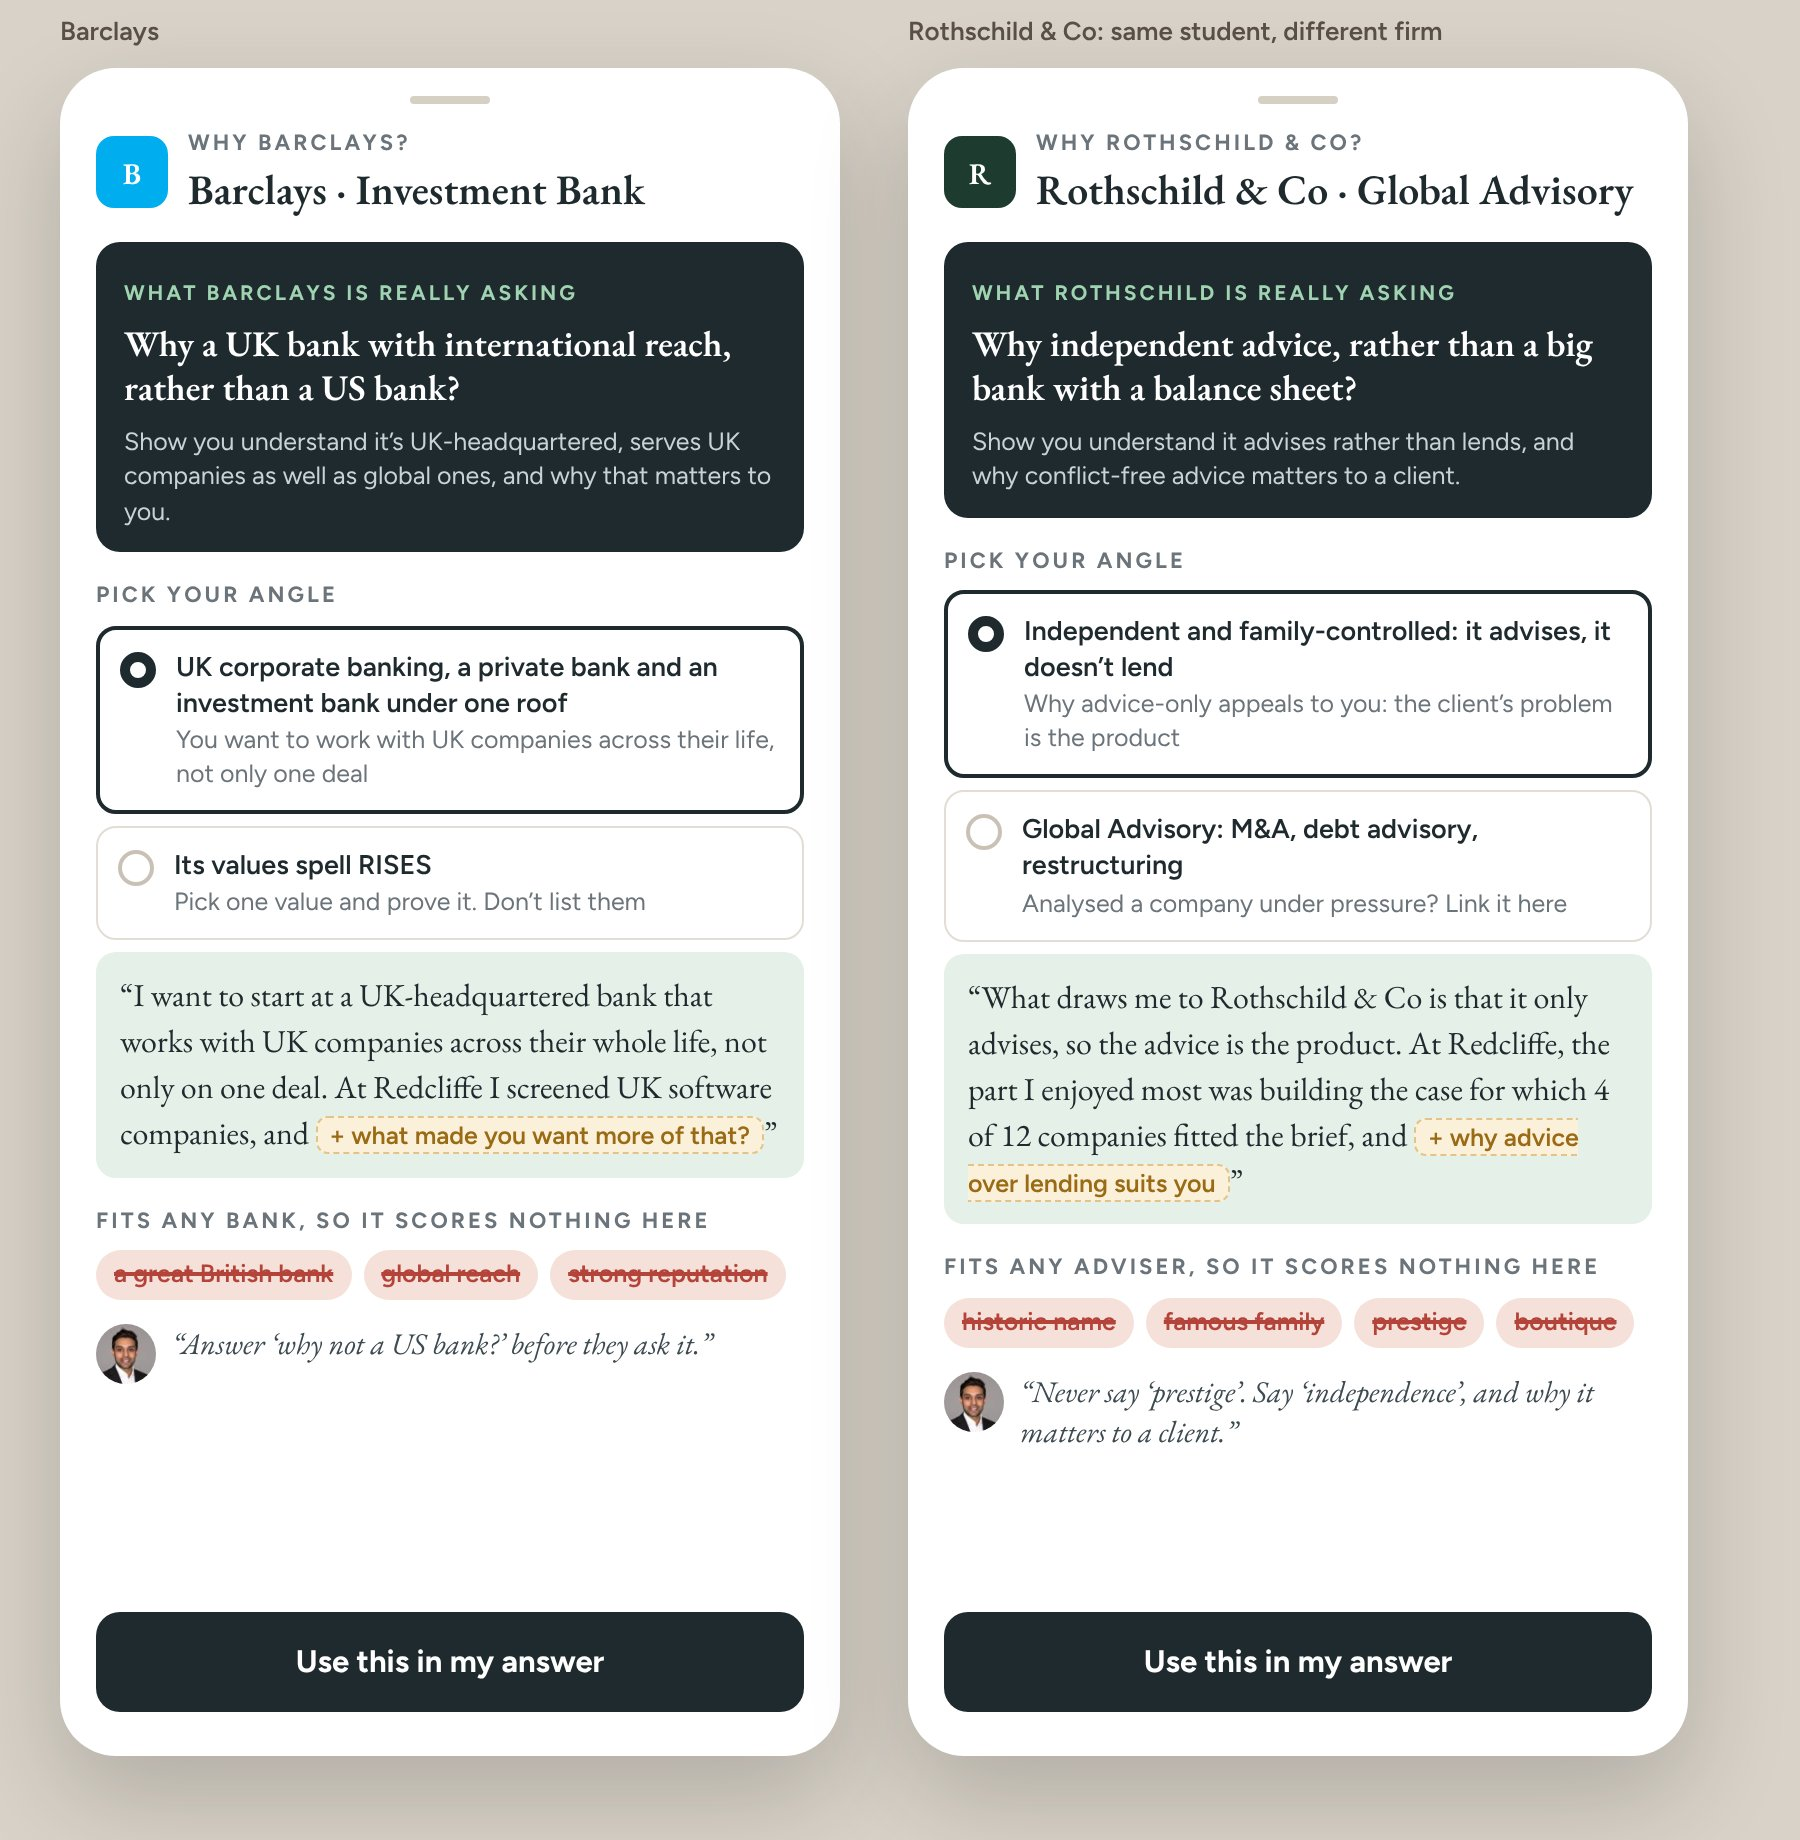
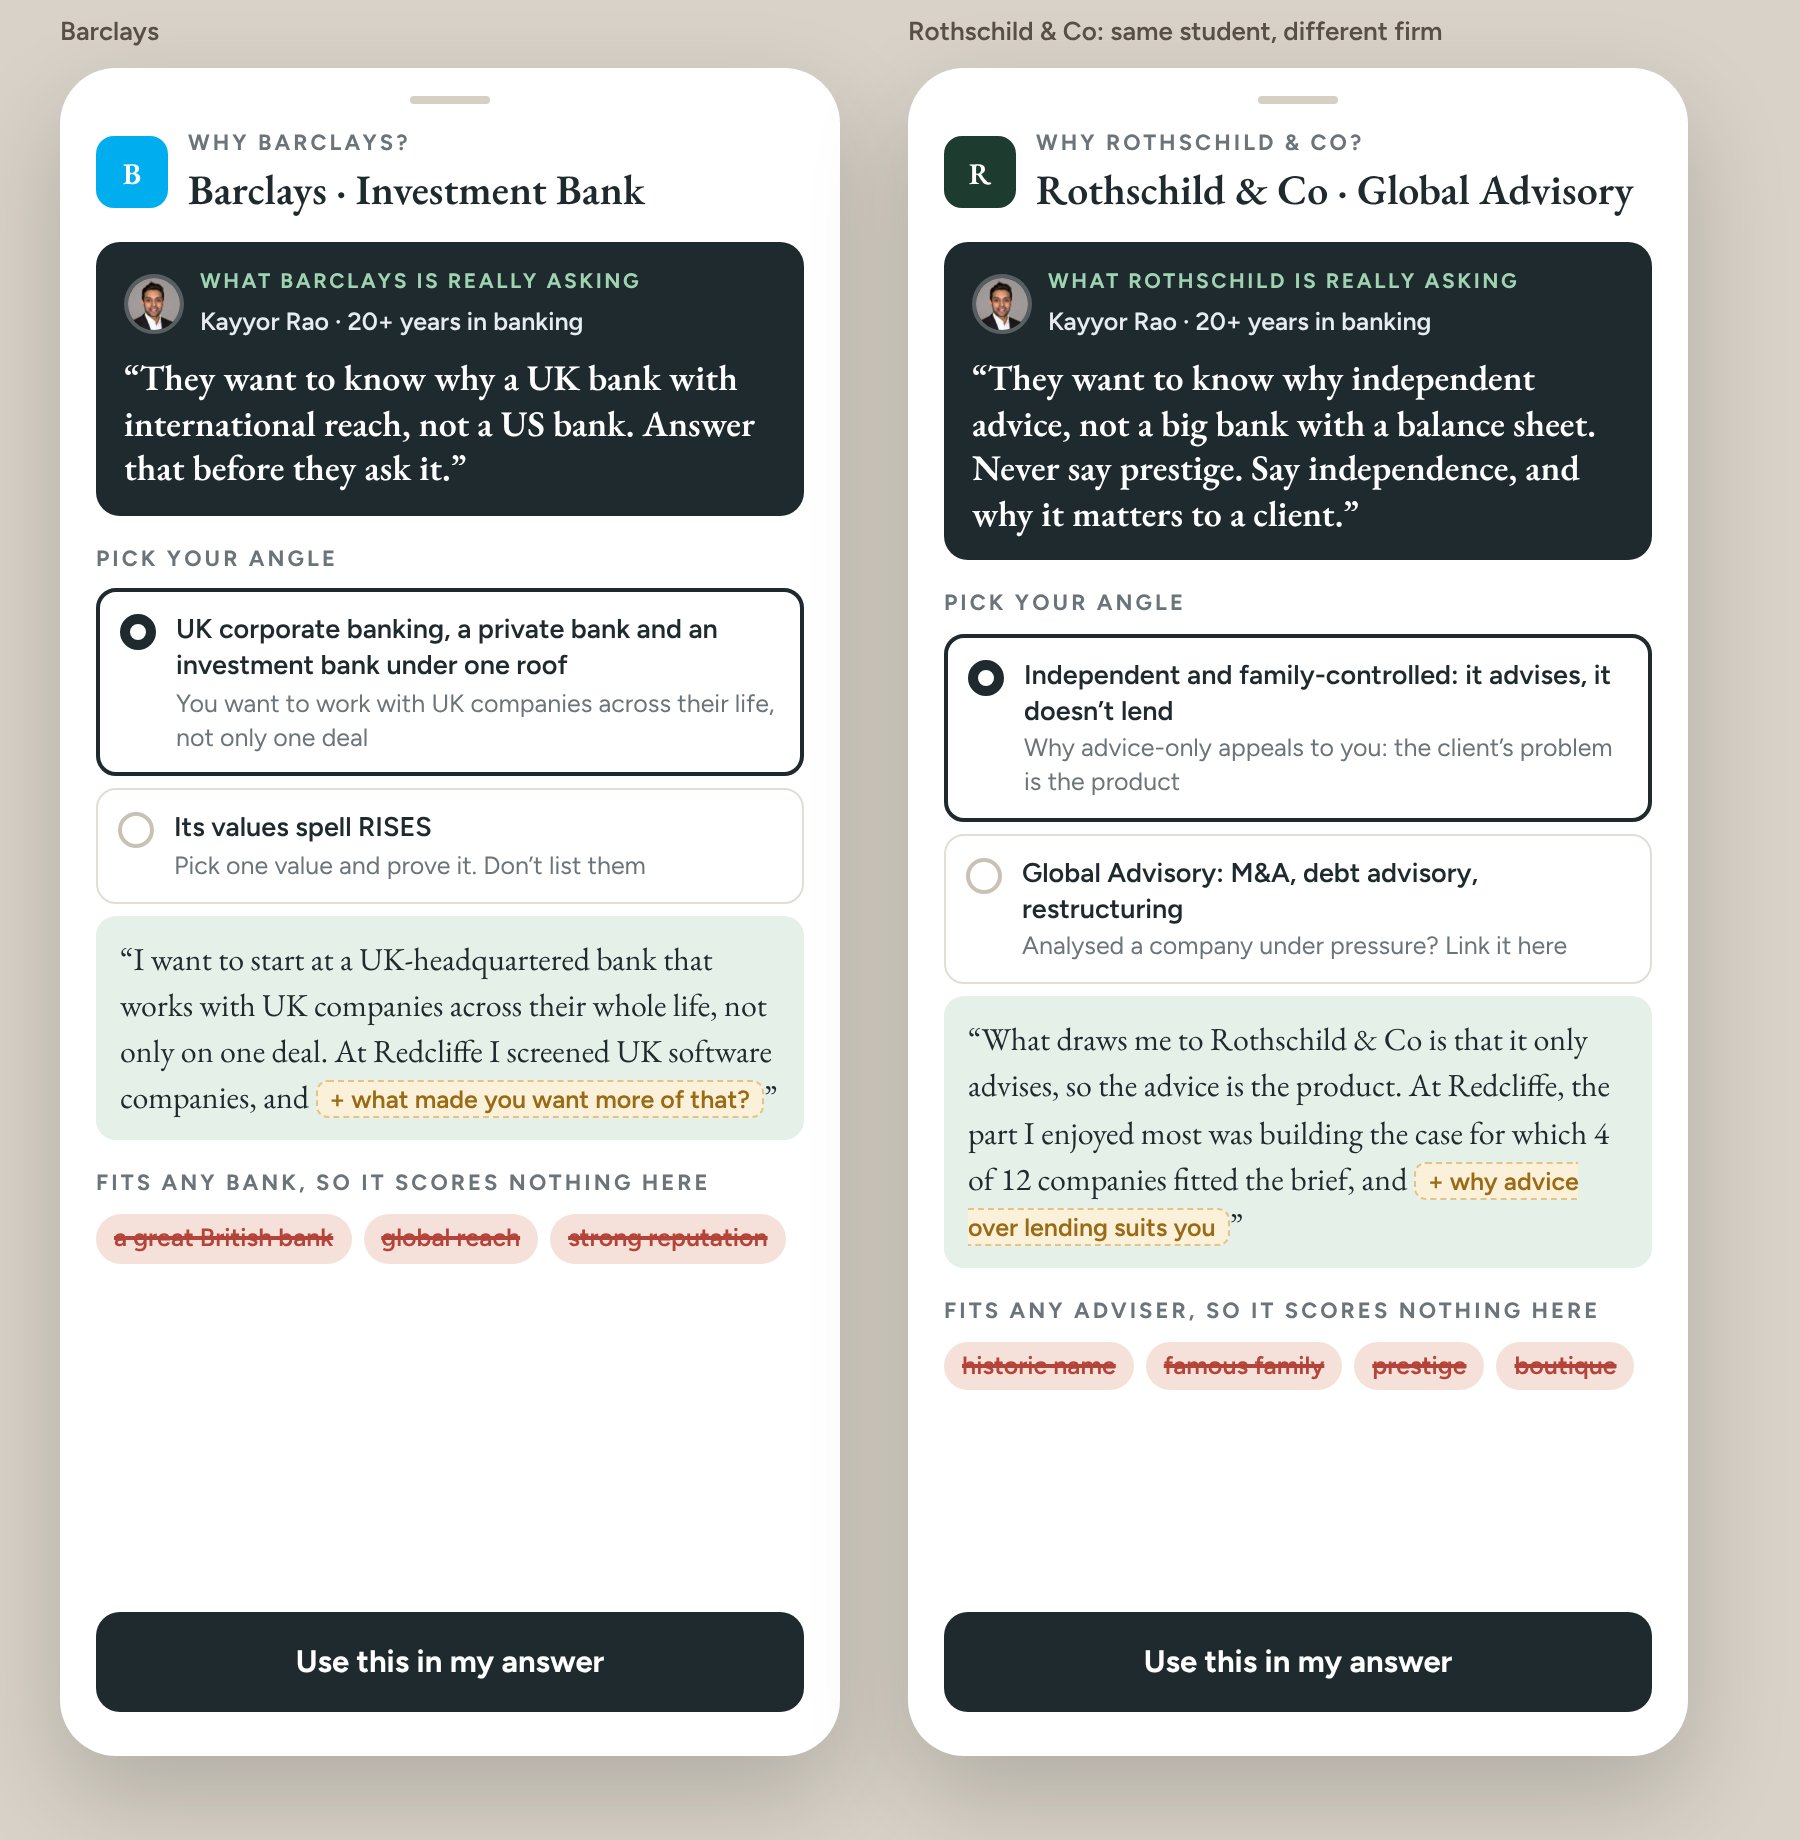
Kayyor's tip is always 'what they're really asking' (why-firm data, mock, brief)
Claude-Session: https://claude.ai/code/session_014HX912Q8GYBLs9Jx181D89

Changed region(s): [[0.4978, 0.1239, 0.9333, 0.7745], [0.0311, 0.1239, 0.4667, 0.7745], [0.8089, 0.1239, 0.84, 0.1549]]

diff --git a/design/why-firm-mock.html b/design/why-firm-mock.html
@@ -9,7 +9,7 @@
 .firm{display:flex;align-items:center;gap:10px}
 .logo{width:36px;height:36px;border-radius:9px;display:flex;align-items:center;justify-content:center;color:#fff;font:600 15px "EB Garamond",Georgia,serif}
 .firm small{display:block;font-size:11px;letter-spacing:.14em;text-transform:uppercase;font-weight:700;color:var(--mute)}.firm b{font:600 21px "EB Garamond",Georgia,serif}
-.angle{margin-top:12px;background:var(--ink);color:#fff;border-radius:12px;padding:12px 14px}
+.angle{margin-top:12px;background:var(--ink);color:#fff;border-radius:12px;padding:12px 14px}.angle .who{display:flex;align-items:center;gap:8px;margin-bottom:6px}.angle .who img{width:30px;height:30px;border-radius:50%;border:2px solid rgba(255,255,255,.25)}.angle .who b{font-size:12.5px;font-weight:600;color:#e6ecef}.angle .who em{font-style:normal;display:block;font-size:10.5px;letter-spacing:.12em;text-transform:uppercase;color:#9fd3b1;font-weight:700}
 .angle small{font-size:10.5px;letter-spacing:.14em;text-transform:uppercase;font-weight:700;color:#9fd3b1}
 .angle p{margin:4px 0 0;font:600 18px/1.25 "EB Garamond",Georgia,serif}
 .angle span{display:block;margin-top:6px;font-size:12.5px;color:#c9d2d6;line-height:1.4}
@@ -27,27 +27,25 @@ h4{margin:14px 0 6px;font-size:11px;letter-spacing:.14em;text-transform:uppercas
 
 <div class="wrap"><div class="cap">Barclays</div><div class="ph"><div class="grab"></div>
   <div class="firm"><span class="logo" style="background:#00aeef">B</span><div><small>Why Barclays?</small><b>Barclays · Investment Bank</b></div></div>
-  <div class="angle"><small>What Barclays is really asking</small><p>Why a UK bank with international reach, rather than a US bank?</p><span>Show you understand it’s UK-headquartered, serves UK companies as well as global ones, and why that matters to you.</span></div>
+  <div class="angle"><div class="who"><img src="img/rao-72.jpg"><div><em>What Barclays is really asking</em><b>Kayyor Rao · 20+ years in banking</b></div></div><p>“They want to know why a UK bank with international reach, not a US bank. Answer that before they ask it.”</p></div>
   <h4>Pick your angle</h4>
   <div class="hook on"><i></i><div><b>UK corporate banking, a private bank and an investment bank under one roof</b><span>You want to work with UK companies across their life, not only one deal</span></div></div>
   <div class="hook"><i></i><div><b>Its values spell RISES</b><span>Pick one value and prove it. Don’t list them</span></div></div>
   <div class="draft">“I want to start at a UK-headquartered bank that works with UK companies across their whole life, not only on one deal. At Redcliffe I screened UK software companies, and <span class="g">+ what made you want more of that?</span>”</div>
   <h4>Fits any bank, so it scores nothing here</h4>
   <div class="avoid"><span>a great British bank</span><span>global reach</span><span>strong reputation</span></div>
-  <div class="tip"><img src="img/rao-72.jpg"><div>“Answer ‘why not a US bank?’ before they ask it.”</div></div>
   <div class="btn">Use this in my answer</div>
 </div></div>
 
 <div class="wrap"><div class="cap">Rothschild &amp; Co: same student, different firm</div><div class="ph"><div class="grab"></div>
   <div class="firm"><span class="logo" style="background:#1d3b2f">R</span><div><small>Why Rothschild &amp; Co?</small><b>Rothschild &amp; Co · Global Advisory</b></div></div>
-  <div class="angle"><small>What Rothschild is really asking</small><p>Why independent advice, rather than a big bank with a balance sheet?</p><span>Show you understand it advises rather than lends, and why conflict-free advice matters to a client.</span></div>
+  <div class="angle"><div class="who"><img src="img/rao-72.jpg"><div><em>What Rothschild is really asking</em><b>Kayyor Rao · 20+ years in banking</b></div></div><p>“They want to know why independent advice, not a big bank with a balance sheet. Never say prestige. Say independence, and why it matters to a client.”</p></div>
   <h4>Pick your angle</h4>
   <div class="hook on"><i></i><div><b>Independent and family-controlled: it advises, it doesn’t lend</b><span>Why advice-only appeals to you: the client’s problem is the product</span></div></div>
   <div class="hook"><i></i><div><b>Global Advisory: M&amp;A, debt advisory, restructuring</b><span>Analysed a company under pressure? Link it here</span></div></div>
   <div class="draft">“What draws me to Rothschild & Co is that it only advises, so the advice is the product. At Redcliffe, the part I enjoyed most was building the case for which 4 of 12 companies fitted the brief, and <span class="g">+ why advice over lending suits you</span>”</div>
   <h4>Fits any adviser, so it scores nothing here</h4>
   <div class="avoid"><span>historic name</span><span>famous family</span><span>prestige</span><span>boutique</span></div>
-  <div class="tip"><img src="img/rao-72.jpg"><div>“Never say ‘prestige’. Say ‘independence’, and why it matters to a client.”</div></div>
   <div class="btn">Use this in my answer</div>
 </div></div>
 </body></html>

diff --git a/CODEX-WHY-FIRM.md b/CODEX-WHY-FIRM.md
@@ -8,16 +8,16 @@ Most of a "why us" answer is generic structure (firm angle → your link → you
 2. **Hooks:** 2–3 firm facts (from the packs, sourced from the firm's own site), each with how a student might link to it.
 3. **Avoid:** phrases that fit any firm, so they score nothing there. Barclays: "a great British bank", "global reach". Rothschild: "prestige", "boutique", "famous family".
 
-Plus one practitioner tip per firm (with Kayyor's photo).
+**"What they're really asking" is Kayyor's tip.** The dark card shows his photo, "What {firm} is really asking", "Kayyor Rao · 20+ years in banking", and the `tip` text in his voice. There is no separate tip line anywhere else in the sheet.
 
 ## Where it appears
 1. **The "Why {firm}" gap sheet** in the interview feedback, and the "Why {firm}" beat on the think screen. This replaces the generic quick picks.
    - Header: firm logo tile (use the existing firm logo assets) + "Why {firm}?" + "{firm} · {division}".
-   - Dark card "What {firm} is really asking": `angle` + `listen`.
+   - Dark card with Kayyor's photo: "What {firm} is really asking" + "Kayyor Rao · 20+ years in banking" + the `tip` quote (Garamond). Keep `angle` for the think-screen line and the scorer.
    - "Pick your angle": the `hooks` as radio cards (fact in bold, link line muted).
    - A live green draft linking the chosen hook to **the student's own evidence** (CV, transcript, gap answers), with an amber gap for the personal reason.
    - "Fits any {bank|adviser|firm}, so it scores nothing here": the `avoid` chips, struck through in red.
-   - Tip with photo. Button: "Use this in my answer".
+   - Button: "Use this in my answer".
 2. **The feedback scorer:** if the student's answer contains any `avoid` phrase or `GENERIC_AVOID` phrase, the "Why {firm}" fix quotes it ("You said 'a great bank'. That fits any bank.") and suggests the firm's angle.
 3. **Application drafts:** the "Why {firm}" question uses the same angle and hooks.
 4. **Think screen:** the "Why {firm}" beat line shows the angle in small text: "{firm} wants: {angle}".
@@ -29,3 +29,19 @@ Plus one practitioner tip per firm (with Kayyor's photo).
 - **Keep "Check it's true before you say it in an interview"** under every draft.
 
 Send Rao 390px screenshots of the sheet for Barclays and Rothschild with the same student.
+
+## Rule for every Kayyor tip, everywhere
+Kayyor's tip is **always "what they're really asking"**, never generic advice. This applies to:
+- the interview think screen (every question)
+- the crib sheet
+- feedback
+- application drafts
+- the free result
+
+Format: photo + "What {firm | the interviewer} is really asking" + "Kayyor Rao · 20+ years in banking" + one or two sentences in his voice, starting "They want to know…".
+
+Examples:
+- Team question: "They want to know what *you* did. Every 'we' hides you."
+- Intro question: "They want to know which one experience makes you relevant. Lead with it, not your degree."
+
+Store as `reallyAsking` on each question in the question banks. Replace the current tip text (e.g. "Lead with relevant experience, then explain why this role.") with this format. Rao approves the wording.
